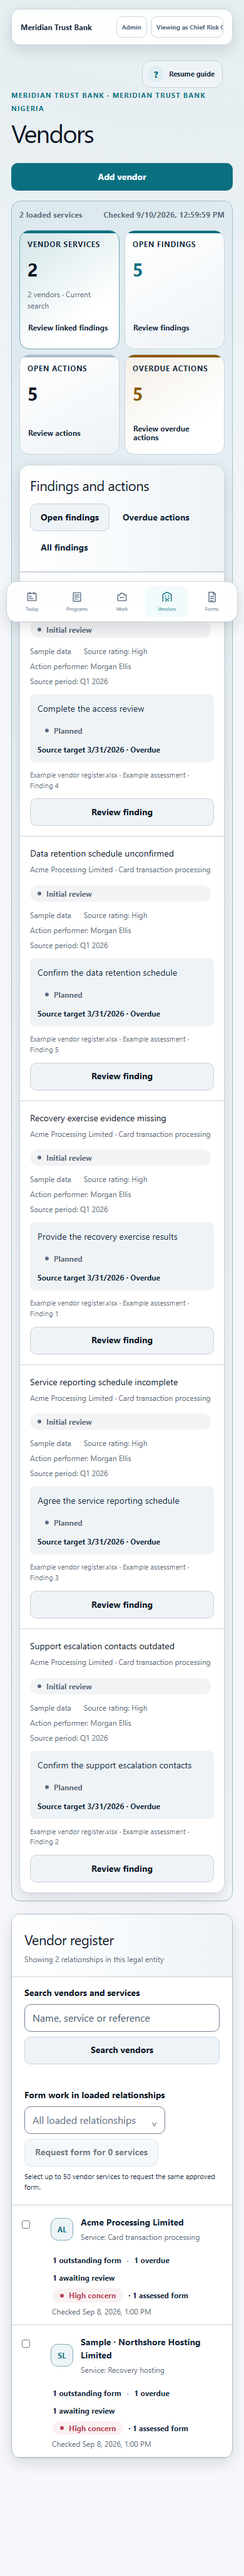
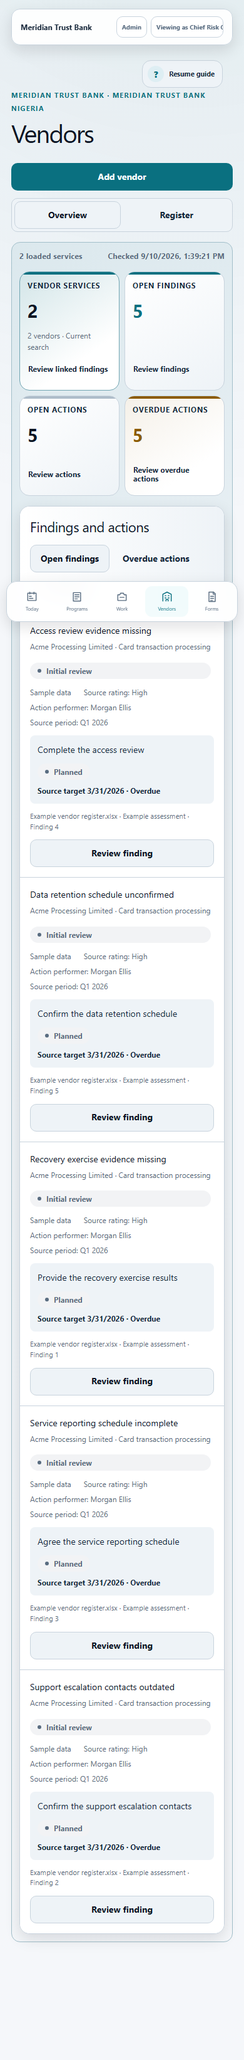
Separate vendor overview and register

diff --git a/web/src/components/VendorsWorkspace.tsx b/web/src/components/VendorsWorkspace.tsx
@@ -1,5 +1,6 @@
 import { vendorWorkFilters } from "../vendorFormPresentation";
 import { useEffect, useMemo, useRef, useState } from "react";
+import type { VendorPage } from "../appRouting";
 import "../vendors.css";
 import { resolveAuthority } from "../api";
 import { apiErrorKind } from "../http";
@@ -29,11 +30,13 @@ import "./vendor-forms.css";
 type Props = {
   organizationName: string;
   legalEntityName: string;
+  page?: VendorPage;
   targetID?: string;
   guideIntent?: { id: number; type: "open-vendor-due-diligence" | "open-vendor-work" | "open-vendor-next-action" };
   onGuideIntentCompleted?: (id: number) => void;
   onGuideIntentFailed?: (id: number) => void;
   onTarget?: (id?: string) => void;
+  onPage?: (page: VendorPage) => void;
   onOpenRequest?: (requestID: string) => void;
   onOpenMatter?: (matterID: string) => void;
   onOpenForms?: () => void;
@@ -85,7 +88,7 @@ function firstVisiblePrimaryAction(selector: string) {
   return [...document.querySelectorAll<HTMLElement>(`${selector} button.primary-button:not(:disabled), ${selector} button.cs-button--primary:not(:disabled)`)].find(isGuideTargetAvailable) ?? null;
 }
 
-export function VendorsWorkspace({ organizationName, legalEntityName, targetID, guideIntent, onGuideIntentCompleted, onGuideIntentFailed, onTarget, onOpenRequest, onOpenMatter, onOpenForms }: Props) {
+export function VendorsWorkspace({ organizationName, legalEntityName, page = "register", targetID, guideIntent, onGuideIntentCompleted, onGuideIntentFailed, onTarget, onPage, onOpenRequest, onOpenMatter, onOpenForms }: Props) {
   const [records, setRecords] = useState<VendorRelationshipAggregate[]>([]);
   const [selected, setSelected] = useState<VendorRelationshipAggregate | null>(null);
   const [accountableOwnerLabel, setAccountableOwnerLabel] = useState("Current owner unavailable");
@@ -650,20 +653,26 @@ export function VendorsWorkspace({ organizationName, legalEntityName, targetID, 
   }
 
   const workspaceClass = `vendors-workspace${registerLocked ? " is-form" : selected ? " has-selection" : ""}`;
+  const activePage: VendorPage = selected || registerLocked ? "register" : page;
   const shownRecords = workFilter ? records.filter((record) => vendorSummaryMatches(formSummaries.get(record.relationship.id), workFilter)) : records;
   function requestForms(values: VendorRelationshipAggregate[]) { setRequestTargets(values.map((value) => ({ relationshipID: value.relationship.id, vendorName: value.vendor.legal_name, serviceName: value.relationship.service_name }))); }
   function openFormWork(record: VendorRelationshipAggregate, filter?: VendorFormsFilter) { choose(record); setVendorSection("FORMS"); setFormsFocus({ relationshipID: record.relationship.id, filter }); }
   return <div className={workspaceClass} tabIndex={-1}>
     <header className="topbar vendors-topbar">
       <div>{!selected && <span className="eyebrow">{organizationName} · {legalEntityName}</span>}<h1>Vendors</h1></div>
-      {mode === "browse" && <Button id="vendor-add-action" type="button" variant={selected ? "secondary" : "primary"} onPress={startCreate} isDisabled={state !== "live"}>Add vendor</Button>}
+      {mode === "browse" && <Button id="vendor-add-action" type="button" variant={selected ? "secondary" : "primary"} onPress={() => { onPage?.("register"); startCreate(); }} isDisabled={state !== "live"}>Add vendor</Button>}
     </header>
+
+    <nav className="vendor-subnav" aria-label="Vendor sections">
+      <Button variant={activePage === "overview" ? "secondary" : "quiet"} aria-current={activePage === "overview" ? "page" : undefined} isDisabled={registerLocked} onPress={() => onPage?.("overview")}>Overview</Button>
+      <Button variant={activePage === "register" ? "secondary" : "quiet"} aria-current={activePage === "register" ? "page" : undefined} isDisabled={registerLocked} onPress={() => onPage?.("register")}>Register</Button>
+    </nav>
 
     {notice && <Notice tone="success">{notice}</Notice>}
     {state === "loading" && <div className="workspace-loading" aria-live="polite" aria-busy="true">Loading vendor relationships for {legalEntityName}…</div>}
     {state === "unavailable" && <section className="vendor-state" role="alert"><h2>Vendor records are unavailable</h2><p>The vendor register for {legalEntityName} could not be loaded. Try again before adding or changing a record.</p><Button  type="button" onPress={() => void refresh(targetID, "")}>Try again</Button></section>}
-    {state === "live" && !selected && !registerLocked && <VendorPortfolio records={records} hasMore={!!nextCursor} onOpenMatter={onOpenMatter} refreshKey={formsRefreshKey}/>}
-    {state === "live" && <div className="vendor-layout">
+    {state === "live" && activePage === "overview" && !selected && !registerLocked && <VendorPortfolio records={records} hasMore={!!nextCursor} onOpenMatter={onOpenMatter} refreshKey={formsRefreshKey}/>}
+    {state === "live" && activePage === "register" && <div className="vendor-layout">
       <section id="vendor-portfolio-register" tabIndex={-1} className="vendor-register" aria-label={`Vendor relationships for ${legalEntityName}`} aria-describedby={registerLocked ? "vendor-register-lock-note" : undefined}>
         <div className="vendor-register-header"><div><h2>Vendor register</h2><p>{submittedQuery ? `Showing ${records.length} matching ${records.length === 1 ? "relationship" : "relationships"}` : `Showing ${records.length} ${records.length === 1 ? "relationship" : "relationships"} in this legal entity`}</p>{nextCursor && <small>More relationships are available.</small>}</div></div>
         {registerLocked && <p id="vendor-register-lock-note" className="vendor-register-lock-note">{registerLockMessage}</p>}

diff --git a/web/src/App.tsx b/web/src/App.tsx
@@ -412,7 +412,7 @@ function App({ presentation = "enterprise" }: { presentation?: RuntimePresentati
       {activeView === "oversight" && oversightEnabled && <Suspense fallback={<div className="workspace-loading" aria-live="polite" aria-busy="true">Loading oversight…</div>}><OversightWorkspace organizationName={organizationName} legalEntityName={legalEntityName} onOpenMatter={(id) => navigate("work", { matterID: id }, "matters")}/></Suspense>}
       {activeView === "programs" && <ProgramsView organizationName={organizationName} actorPrincipalID={runtime?.actor.id} canConfigureSources={runtime?.capabilities?.config_write === true} targetID={target.programID} targetSection={target.programSection} programItem={target.programItem} onSectionChange={(programID, programSection) => navigate("programs", { programID, programSection })} openFirst={target.openFirstProgram} onOpenRequest={(id) => navigate("work", { evidenceID: id }, "evidence")} onAnalyzeDocument={importsEnabled ? () => navigate("imports") : undefined}/>}
       {activeView === "work" && <WorkView organizationName={organizationName} actorPrincipalID={runtime?.actor.id} evidenceScopeToken={evidenceScopeEpoch.current} tab={workTab} onTab={(tab) => navigate("work", {}, tab)} onBackMatter={() => navigate("work", {}, "matters")} sources={sources} requests={evidenceRequests} evidenceSourceState={evidenceSourceState === "idle" ? "loading" : evidenceSourceState} evidenceRequestState={evidenceRequestState === "idle" ? "loading" : evidenceRequestState} onEvidenceRetry={() => void loadEvidenceWorkspace(target.evidenceID)} onEvidenceRequestUpdated={updateEvidenceEntity} matterTargetID={target.matterID} openFirstMatter={target.openFirstMatter} evidenceTargetID={target.evidenceID} openFirstEvidence={target.openFirstEvidence} onOpenEvidence={(id) => void openCapture(id)} onAnalyzeDocument={importsEnabled ? () => navigate("imports") : undefined}/>}
-      {activeView === "vendors" && <Suspense fallback={<div className="workspace-loading" aria-live="polite" aria-busy="true">Loading vendor relationships…</div>}><VendorsWorkspace organizationName={organizationName} legalEntityName={legalEntityName} targetID={target.vendorRelationshipID} guideIntent={vendorGuideIntent} onGuideIntentCompleted={completeVendorGuideIntent} onGuideIntentFailed={failVendorGuideIntent} onTarget={(id) => navigate("vendors", id ? { vendorRelationshipID: id } : {})} onOpenRequest={(id) => navigate("work", { evidenceID: id }, "evidence")} onOpenMatter={(id) => navigate("work", { matterID: id }, "matters")} onOpenForms={() => navigate("forms")}/></Suspense>}
+      {activeView === "vendors" && <Suspense fallback={<div className="workspace-loading" aria-live="polite" aria-busy="true">Loading vendor relationships…</div>}><VendorsWorkspace organizationName={organizationName} legalEntityName={legalEntityName} page={target.vendorPage ?? "overview"} targetID={target.vendorRelationshipID} guideIntent={vendorGuideIntent} onGuideIntentCompleted={completeVendorGuideIntent} onGuideIntentFailed={failVendorGuideIntent} onPage={(vendorPage) => navigate("vendors", { vendorPage })} onTarget={(id) => navigate("vendors", id ? { vendorPage: "register", vendorRelationshipID: id } : { vendorPage: "register" })} onOpenRequest={(id) => navigate("work", { evidenceID: id }, "evidence")} onOpenMatter={(id) => navigate("work", { matterID: id }, "matters")} onOpenForms={() => navigate("forms")}/></Suspense>}
       {activeView === "people" && <Suspense fallback={<div className="workspace-loading" aria-live="polite">Loading employee record…</div>}><EmployeeProfileWorkspace personID={target.personID} onOpenMatter={(id) => navigate("work", { matterID: id }, "matters")}/></Suspense>}
       {activeView === "forms" && <Suspense fallback={<div className="workspace-loading" aria-live="polite" aria-busy="true">Loading Forms…</div>}><FormsWorkspace organizationName={organizationName} legalEntityName={legalEntityName} canConfigureCommunications={runtime?.capabilities?.config_write === true} targetID={target.formTemplateID} navigationLocation={formsNavigationLocation} onTarget={(id) => navigate("forms", id ? { formTemplateID: id } : {})}/></Suspense>}
       {activeView === "imports" && importsEnabled && <><header className="topbar"><div><span className="eyebrow">{organizationName}</span><h1>Imports</h1><p>Import documents, compare their obligations with current Programs, controls and evidence, then review proposed updates.</p></div></header><DocumentImportWorkspace/></>}

diff --git a/web/src/vendors.css b/web/src/vendors.css
@@ -1,6 +1,8 @@
 .vendors-topbar { align-items:flex-start; }
 .vendors-topbar h1 { font-size:40px; }
 .vendors-topbar p { max-width:760px; margin-bottom:0; }
+.vendor-subnav { display:flex; inline-size:max-content; max-inline-size:100%; gap:var(--cs-primitive-space-1); margin-block-start:var(--cs-primitive-space-3); padding:var(--cs-primitive-space-1); border:1px solid var(--cs-border-default); border-radius:var(--cs-button-radius); background:var(--cs-bg-surface-2); }
+.vendor-subnav .cs-button { min-inline-size:7rem; }
 .vendors-workspace.has-selection > .vendors-topbar { display:flex; flex-direction:row; align-items:center; justify-content:space-between; gap:var(--cs-primitive-space-3); }
 .vendors-workspace.has-selection > .vendors-topbar h1 { margin:0; font-size:var(--cs-primitive-font-size-28); }
 .vendors-workspace.has-selection > .vendors-topbar > button { width:auto; }
@@ -129,4 +131,4 @@ label.vendor-field > input[aria-invalid="true"],label.vendor-field > textarea[ar
   .vendors-workspace.has-selection > .vendor-layout { margin-top:0; }
 }
 @media (max-width:1000px) { .vendor-layout { grid-template-columns:1fr; } .vendor-register { position:static; } }
-@media (max-width:760px) { .vendors-topbar,.vendor-detail-heading,.vendor-identity-form-heading,.vendor-activation-heading { display:grid; } .vendors-topbar > button,.vendor-detail-actions,.vendor-detail-actions > button,.vendor-identity-heading-actions,.vendor-identity-heading-actions .secondary-button,.vendor-conflict-recovery,.vendor-conflict-recovery > button,.vendor-activation-action .primary-button { width:100%; } .vendor-identity-heading-actions { justify-content:flex-start; } .vendor-layout { margin-top:20px; } .vendor-register,.vendor-focus { border-radius:14px; } .vendors-workspace.has-selection .vendor-register,.vendors-workspace.is-form .vendor-register { display:none; } .vendors-workspace:not(.has-selection):not(.is-form) .vendor-focus { display:none; } .vendor-mobile-back { display:inline-flex; } .vendor-facts,.vendor-form-grid,.vendor-search,.vendor-existing-search { grid-template-columns:1fr; } .vendor-field.wide,.vendor-field-help { grid-column:auto; } .vendor-form-actions,.vendor-brand-status,.vendor-brand-actions,.vendor-brand-actions > div,.vendor-logo-staged { display:grid; } .vendor-form-actions button,.vendor-search button,.vendor-brand-actions button { width:100%; } .vendor-criticality { display:none; } .vendor-match { grid-template-columns:1fr; } .vendor-activation-panel { margin-inline:14px; padding:16px; } }
+@media (max-width:760px) { .vendors-topbar,.vendor-detail-heading,.vendor-identity-form-heading,.vendor-activation-heading { display:grid; } .vendors-topbar > button,.vendor-detail-actions,.vendor-detail-actions > button,.vendor-identity-heading-actions,.vendor-identity-heading-actions .secondary-button,.vendor-conflict-recovery,.vendor-conflict-recovery > button,.vendor-activation-action .primary-button { width:100%; } .vendor-subnav { inline-size:100%; box-sizing:border-box; } .vendor-subnav .cs-button { flex:1 1 0; min-inline-size:0; } .vendor-identity-heading-actions { justify-content:flex-start; } .vendor-layout { margin-top:20px; } .vendor-register,.vendor-focus { border-radius:14px; } .vendors-workspace.has-selection .vendor-register,.vendors-workspace.is-form .vendor-register { display:none; } .vendors-workspace:not(.has-selection):not(.is-form) .vendor-focus { display:none; } .vendor-mobile-back { display:inline-flex; } .vendor-facts,.vendor-form-grid,.vendor-search,.vendor-existing-search { grid-template-columns:1fr; } .vendor-field.wide,.vendor-field-help { grid-column:auto; } .vendor-form-actions,.vendor-brand-status,.vendor-brand-actions,.vendor-brand-actions > div,.vendor-logo-staged { display:grid; } .vendor-form-actions button,.vendor-search button,.vendor-brand-actions button { width:100%; } .vendor-criticality { display:none; } .vendor-match { grid-template-columns:1fr; } .vendor-activation-panel { margin-inline:14px; padding:16px; } }

diff --git a/web/src/appRouting.ts b/web/src/appRouting.ts
@@ -2,6 +2,7 @@ export type View = "today" | "oversight" | "programs" | "forms" | "vendors" | "w
 export type WorkTab = "matters" | "evidence";
 export type ProgramSection = "overview" | "requirements-controls" | "monitoring" | "evidence-results" | "issues-actions" | "history";
 export type ProgramItemTarget = { kind: "requirement" | "control-objective"; id: string };
+export type VendorPage = "overview" | "register";
 export type WorkspaceTarget = {
   programID?: string;
   formTemplateID?: string;
@@ -11,6 +12,7 @@ export type WorkspaceTarget = {
 	evidenceID?: string;
 	personID?: string;
   vendorRelationshipID?: string;
+  vendorPage?: VendorPage;
   documentID?: string;
   openFirstProgram?: boolean;
   openFirstMatter?: boolean;
@@ -43,7 +45,11 @@ export function parseRoute(hash: string): { view: View; workTab?: WorkTab; targe
   }
 	if (view === "forms") return { view, target: { formTemplateID: decodeTarget(parts[1]) } };
 	if (view === "people") return { view, target: { personID: decodeTarget(parts[1]) } };
-  if (view === "vendors") return { view, target: { vendorRelationshipID: decodeTarget(parts[1]) } };
+	if (view === "vendors") {
+    if (!parts[1] || parts[1] === "overview") return { view, target: { vendorPage: "overview" } };
+    if (parts[1] === "register") return { view, target: { vendorPage: "register", ...(parts[2] ? { vendorRelationshipID: decodeTarget(parts[2]) } : {}) } };
+    return { view, target: { vendorPage: "register", vendorRelationshipID: decodeTarget(parts[1]) } };
+  }
   if (view === "imports") return { view, target: { documentID: decodeTarget(parts[1]) } };
   if (view === "work") {
     const workTab: WorkTab = parts[1] === "evidence" ? "evidence" : "matters";
@@ -61,7 +67,10 @@ export function routeHash(view: View, target: WorkspaceTarget, workTab: WorkTab)
   }
 	if (view === "forms" && target.formTemplateID) return `#forms/${encodeURIComponent(target.formTemplateID)}`;
 	if (view === "people" && target.personID) return `#people/${encodeURIComponent(target.personID)}`;
-  if (view === "vendors" && target.vendorRelationshipID) return `#vendors/${encodeURIComponent(target.vendorRelationshipID)}`;
+  if (view === "vendors") {
+    if (target.vendorRelationshipID) return `#vendors/register/${encodeURIComponent(target.vendorRelationshipID)}`;
+    if (target.vendorPage) return `#vendors/${target.vendorPage}`;
+  }
   if (view === "imports" && target.documentID) return `#imports/${encodeURIComponent(target.documentID)}`;
   if (view === "work") {
     const id = workTab === "evidence" ? target.evidenceID : target.matterID;

diff --git a/web/src/components/VendorsWorkspace.test.tsx b/web/src/components/VendorsWorkspace.test.tsx
@@ -152,6 +152,20 @@ beforeEach(() => {
 });
 
 describe("VendorsWorkspace", () => {
+  it("keeps the dashboard and register on separate vendor routes", async () => {
+    const onPage = vi.fn();
+    const view = render(<VendorsWorkspace organizationName="Bank" legalEntityName="Bank Nigeria" page="overview" onPage={onPage}/>);
+    expect(await screen.findByRole("navigation", { name: "Vendor sections" })).toBeTruthy();
+    expect(screen.getByRole("region", { name: "Vendor portfolio metrics" })).toBeTruthy();
+    expect(screen.queryByRole("heading", { name: "Vendor register" })).toBeNull();
+    fireEvent.click(screen.getByRole("button", { name: "Register" }));
+    expect(onPage).toHaveBeenCalledWith("register");
+
+    view.rerender(<VendorsWorkspace organizationName="Bank" legalEntityName="Bank Nigeria" page="register" onPage={onPage}/>);
+    expect(await screen.findByRole("heading", { name: "Vendor register" })).toBeTruthy();
+    expect(screen.queryByRole("region", { name: "Vendor portfolio metrics" })).toBeNull();
+  });
+
   it("shows a custom form's failed requirements directly in the vendor overview after submission", async () => {
     vi.mocked(loadVendorForms).mockResolvedValue({ items: [{ request_id: "request-1", relationship_id: "relationship-1", response_id: "submitted-custom-form", form_template_id: "custom-form", form_template_version: 2, title: "Third Party Risk Compliance", response_state: "SUBMITTED", deadline: "2099-10-01T12:00:00Z", updated_at: "2026-09-09T12:00:00Z", required_count: 3, answered_required: 3, missing_fields: [], current: true, required_reviews: 2, completed_reviews: 0, outdated: true, attention_items: [{ field_id: "iso", label: "ISO 27001 certificate", state: "MISSING", source: "RESPONSE" }, { rule_id: "audit-rights", label: "SLA audit rights", state: "GAP", source: "RESPONSE" }] }], observed_at: "2026-09-09T12:00:00Z" });
     render(<VendorsWorkspace organizationName="Clear Telecom" legalEntityName="Clear Telecom Nigeria" targetID="relationship-1"/>);

diff --git a/web/src/appRouting.test.ts b/web/src/appRouting.test.ts
@@ -8,8 +8,13 @@ describe("workspace routes", () => {
   });
 
   it("parses and builds vendor relationship targets", () => {
-    expect(parseRoute("#vendors/relationship-1")).toEqual({ view: "vendors", target: { vendorRelationshipID: "relationship-1" } });
-    expect(routeHash("vendors", { vendorRelationshipID: "relationship-1" }, "matters")).toBe("#vendors/relationship-1");
+    expect(parseRoute("#vendors")).toEqual({ view: "vendors", target: { vendorPage: "overview" } });
+    expect(parseRoute("#vendors/register")).toEqual({ view: "vendors", target: { vendorPage: "register" } });
+    expect(parseRoute("#vendors/register/relationship-1")).toEqual({ view: "vendors", target: { vendorPage: "register", vendorRelationshipID: "relationship-1" } });
+    expect(parseRoute("#vendors/relationship-1")).toEqual({ view: "vendors", target: { vendorPage: "register", vendorRelationshipID: "relationship-1" } });
+    expect(routeHash("vendors", { vendorPage: "overview" }, "matters")).toBe("#vendors/overview");
+    expect(routeHash("vendors", { vendorPage: "register" }, "matters")).toBe("#vendors/register");
+    expect(routeHash("vendors", { vendorPage: "register", vendorRelationshipID: "relationship-1" }, "matters")).toBe("#vendors/register/relationship-1");
   });
 
   it("keeps the Forms search query separate from the selected exact template", () => {

diff --git a/web/src/App.test.tsx b/web/src/App.test.tsx
@@ -319,7 +319,7 @@ describe("runtime navigation", () => {
 
     fireEvent.click(await screen.findByRole("button", { name: "Review due diligence" }));
     expect((await screen.findByTestId("vendor-target")).textContent).toBe("relationship-b");
-    expect(window.location.hash).toBe("#vendors/relationship-b");
+    expect(window.location.hash).toBe("#vendors/register/relationship-b");
   });
 
   it("cancels a slow vendor guide action when navigation leaves Vendors", async () => {

diff --git a/docs/design/2026-09-10-vendor-portfolio.md b/docs/design/2026-09-10-vendor-portfolio.md
@@ -12,7 +12,9 @@ The user's correction replaces the original form-count, criticality and response
 
 Source ratings, source owners, source periods and source target dates remain explicitly attributed. They do not become new present-day ratings or verified completion. The same findings/actions appear first in selected-vendor Overview, before form collection and review. Superseded, revoked and cancelled requests retain their terminal labels, without current missing-answer prompts; collecting/setup assessments do not imply an assigned review.
 
-Desktop uses a layered portfolio frame, four elevated metric cards, a full-width findings/actions workbench and a separately elevated register. The portfolio summary uses restrained cyan and amber status accents, while the register retains a neutral operating surface. Tablet uses two metric columns. Mobile removes elevation, preserves the grouped portfolio frame and stacks finding facts/actions and service rows; detail replaces the portfolio at every width, with an explicit Back to vendor register action. No new palette, chart dependency or animation. Existing typography, semantic tokens and shared controls are retained.
+Vendors has persistent Overview and Register subnavigation. Overview contains the layered portfolio frame, four elevated metric cards and the full-width findings/actions workbench. Register is a separate route containing search, form-work filters, bulk requests and compact service rows; no dashboard content precedes it in the scroll flow. Relationship detail opens from Register and returns to Register. Legacy vendor deep links resolve to the new Register detail route.
+
+Desktop uses a layered portfolio frame and restrained cyan and amber status accents, while Register retains a neutral operating surface. Tablet uses two metric columns. Mobile removes elevation, preserves the grouped portfolio frame and stacks finding facts/actions and service rows. No new palette, chart dependency or animation. Existing typography, semantic tokens and shared controls are retained.
 
 ## Demo scope
 
